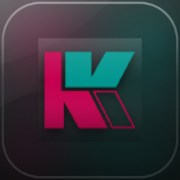
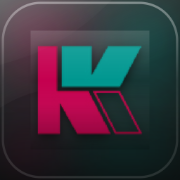
Symbol wieder mit dem grossen K, eigene Fassung fuer Android
Der Buchstabe war auf 57,5 % verkleinert worden, damit er Androids
Kreiszuschnitt uebersteht. Er sieht mit 66 % besser aus, deshalb jetzt
zwei Fassungen statt eines Kompromisses:

- icon-180/192/512.png mit 66 %, Zweck "any" - iPhone und ueberall, wo
  nicht zugeschnitten wird
- icon-192-maske.png und icon-512-maske.png mit 57,5 %, Zweck "maskable" -
  nur fuer den Kreiszuschnitt

Die Dateien mit 66 % sind byteweise dieselben wie vor dem Verkleinern.
Die beiden Werte stehen in tools/icon-bauen.html als GROSS und SICHER.

diff --git a/tools/icon-bauen.html b/tools/icon-bauen.html
@@ -43,7 +43,11 @@ das flache K – nicht das fertige Symbol, sonst läge Glas auf Glas.</p>
 </div>
 
 <script>
-var MAGENTA="#C4004E", TUERKIS="#019891", LETTER=0.575;
+var MAGENTA="#C4004E", TUERKIS="#019891";
+/* Zwei Groessen: das normale Symbol zeigt den Buchstaben gross. Fuer Android
+   gibt es zusaetzlich eine Fassung mit kleinerem K – dort wird auf einen
+   Kreis zugeschnitten und nur die inneren 80 %% sind sicher. */
+var GROSS=0.66, SICHER=0.575;
 
 function radius(g){ return g*0.2237; }
 function platte(c,x,y,b,h,r){ c.beginPath(); c.moveTo(x+r,y);
@@ -70,7 +74,8 @@ function freistellen(bild, g){
   return c;
 }
 
-function iconBauen(bildK, g, dunkel){
+function iconBauen(bildK, g, dunkel, anteil){
+  anteil=anteil||GROSS;
   var c=document.createElement("canvas"); c.width=c.height=g;
   var x=c.getContext("2d");
 
@@ -113,7 +118,7 @@ function iconBauen(bildK, g, dunkel){
   x.restore();
 
   /* das K mit weichem Schatten */
-  var gr2=g*LETTER, ox=(g-gr2)/2, oy=(g-gr2)/2;
+  var gr2=g*anteil, ox=(g-gr2)/2, oy=(g-gr2)/2;
   x.save();
   x.shadowColor = dunkel ? "rgba(0,0,0,0.60)" : "rgba(18,52,50,0.32)";
   x.shadowBlur = g*0.05; x.shadowOffsetY = g*0.02;
@@ -179,25 +184,29 @@ function verkleinern(quelle, ziel){
 var bild=new Image();
 bild.onload=function(){
   var G=1024, k=freistellen(bild,G);
-  var hell=iconBauen(k,G,false), dunkel=iconBauen(k,G,true);
+  var hell=iconBauen(k,G,false,GROSS),   dunkel=iconBauen(k,G,true,GROSS);
+  var hellM=iconBauen(k,G,false,SICHER), dunkelM=iconBauen(k,G,true,SICHER);
 
-  var zeigen=function(wo, quelle){
-    [[110,"Symbol"],[56,"klein"],[110,"Kreis 80 %"]].forEach(function(p,i){
+  var zeigen=function(wo, normal, maske){
+    [[110,"Symbol",normal,false],[56,"klein",normal,false],[110,"Kreis 80 %",maske,true]].forEach(function(p){
       var d=document.createElement("div");
-      if(i===2) d.className="rund";
-      var c=verkleinern(quelle,p[0]*2); c.style.width=c.style.height=p[0]+"px";
+      if(p[3]) d.className="rund";
+      var c=verkleinern(p[2],p[0]*2); c.style.width=c.style.height=p[0]+"px";
       d.appendChild(c);
       var b=document.createElement("div"); b.className="bez"; b.textContent=p[1];
       d.appendChild(b);
       document.getElementById(wo).appendChild(d);
     });
   };
-  zeigen("h",hell); zeigen("d",dunkel);
+  zeigen("h",hell,hellM); zeigen("d",dunkel,dunkelM);
 
   var holen=document.getElementById("holen");
   [["icon-512.png",hell,512],["icon-192.png",hell,192],["icon-180.png",hell,180],["favicon-32.png",hell,32],
    ["icon-512-dunkel.png",dunkel,512],["icon-192-dunkel.png",dunkel,192],
-   ["icon-180-dunkel.png",dunkel,180],["favicon-32-dunkel.png",dunkel,32]].forEach(function(p){
+   ["icon-180-dunkel.png",dunkel,180],["favicon-32-dunkel.png",dunkel,32],
+   /* für Android: kleinerer Buchstabe, damit der Kreiszuschnitt nichts abschneidet */
+   ["icon-512-maske.png",hellM,512],["icon-192-maske.png",hellM,192],
+   ["icon-512-maske-dunkel.png",dunkelM,512],["icon-192-maske-dunkel.png",dunkelM,192]].forEach(function(p){
     verkleinern(p[1],p[2]).toBlob(function(b){
       var a=document.createElement("a");
       a.className="hol"; a.download=p[0]; a.href=URL.createObjectURL(b);

diff --git a/README.md b/README.md
@@ -342,14 +342,21 @@ bleiben die Kanten sauber.
 | Datei | wofür |
 |---|---|
 | `icon-180.png` | `apple-touch-icon`, Homebildschirm am iPhone |
-| `icon-192.png`, `icon-512.png` | `manifest.json`, Android und Chrome |
+| `icon-192.png`, `icon-512.png` | `manifest.json`, Zweck `any` |
+| `icon-192-maske.png`, `icon-512-maske.png` | `manifest.json`, Zweck `maskable` |
 | `favicon-32.png` | Symbol im Browser-Reiter |
 | `*-dunkel.png` | dieselben Größen für den Dunkelmodus |
 
-**Der Buchstabe füllt 57,5 % der Fläche.** Das ist kein Zufall: Android
-schneidet Symbole mit `purpose: "maskable"` auf einen Kreis zu und garantiert
-nur die inneren 80 %. Bei größerem K wurden die Ecken abgeschnitten — der
-Türkis-Arm oben rechts und das schmale Feld unten rechts.
+**Zwei Größen des Buchstabens, mit Absicht.** Android schneidet Symbole mit
+`purpose: "maskable"` auf einen Kreis zu und garantiert nur die inneren 80 %.
+Bei einem K über 60 % fehlen danach der Türkis-Arm oben rechts und das
+schmale Feld unten rechts.
+
+Statt den Buchstaben überall kleiner zu machen, gibt es zwei Fassungen: das
+normale Symbol zeigt ihn mit **66 %** groß — so kommt es aufs iPhone und
+überallhin, wo nicht zugeschnitten wird. Für den Kreiszuschnitt liegt
+daneben eine eigene Fassung mit **57,5 %**. Beide Werte stehen in
+`tools/icon-bauen.html` oben als `GROSS` und `SICHER`.
 
 **Dunkelmodus:** Das Symbol im Browser-Reiter richtet sich über
 `media="(prefers-color-scheme: dark)"` nach der Einstellung des Geräts. Auf
